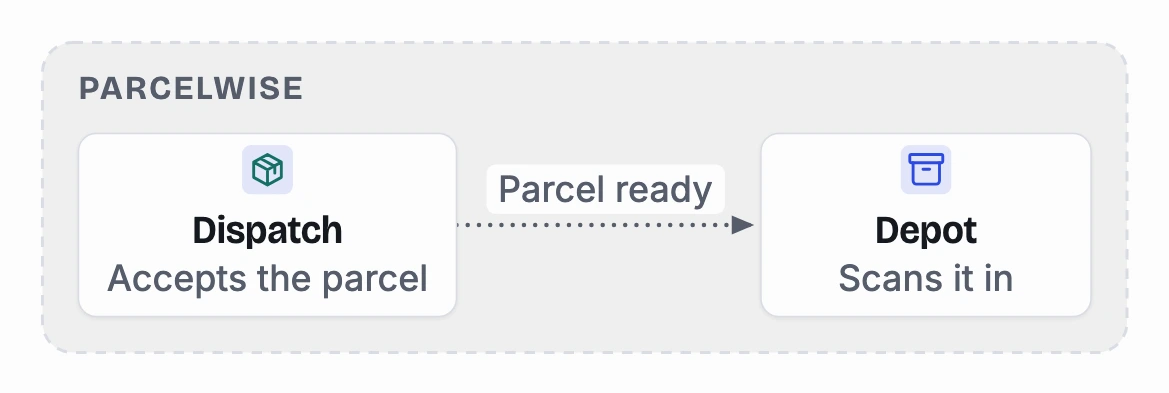
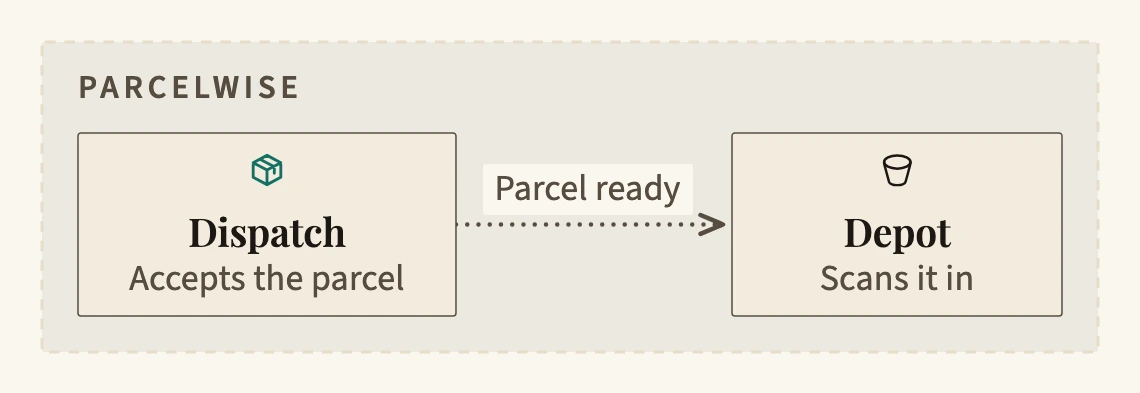
feat(docs): render example decks with fieldnote

diff --git a/src/components/deck/data.ts b/src/components/deck/data.ts
@@ -299,7 +299,7 @@ export function deckUrl(deck: string, slide?: string, step?: number, embed = fal
 
 export type Still = { entry: ShotEntry; image: StillImage };
 
-/** The still of a whole slide, finished (every step shown), in the deck's own brand. */
+/** The still of a whole slide, finished (every step shown), in the docs preview brand. */
 export function slideStill(c: Caller, deck: string, slide: string): Still {
   const entry = shotIndex().files.find((f) => f.kind === "slide" && f.deck === deck && f.slide === slide);
   if (!entry) {

diff --git a/AGENT.md b/AGENT.md
@@ -51,6 +51,8 @@ MDX globals for deckster content, in `src/components/deck/` and registered in `s
 
 **Sync.** `npm run sync` refreshes the generated inputs from a deckster checkout: `DECKSTER_REPO`, else `../2026-11-13-presentation`, else `../deckster`, with its dependencies installed (`pnpm install`, plus Chromium for the stills). It runs that checkout's `scripts/docs/data.ts`, `shots.ts`, `ui-shots.ts` and `decks.ts` into scratch folders and installs the results; `--data`, `--shots` or `--decks` runs one part. A part whose script fails is not installed and the sync exits 1.
 
+For slide and step stills and built decks, `scripts/preview-workspace.mjs` copies the allowlisted decks and brands into a temporary workspace and selects Fieldnote in the copied deck configs. Brand comparison stills use their explicit brand overrides. Product UI shots and release data are generated from the source checkout, so their authored brands and metadata are preserved. Keep tutorial screenshots in the brand the tutorial commands select.
+
 | Output | From | In git |
 |---|---|---|
 | `src/data/*.json` | `data.ts` | committed: small, and its diffs show what changed on `main` |

diff --git a/README.md b/README.md
@@ -22,6 +22,10 @@ npm run sync                                  # stills and decks from the deckst
 npm run dev                                   # http://localhost:4321/deckster/
 ```
 
+The sync uses a temporary copy of the example decks to render slide stills, step stills and
+built decks in Fieldnote. Brand comparisons render each published brand, and product UI
+shots use their original setups. Release data is generated from the source checkout.
+
 The build reads slide stills and built decks that are generated, not committed, so a fresh clone
 does not build until `npm run sync` has run. It uses the deckster checkout at `DECKSTER_REPO`,
 else `../2026-11-13-presentation`, else `../deckster`; that checkout needs `pnpm install` and
